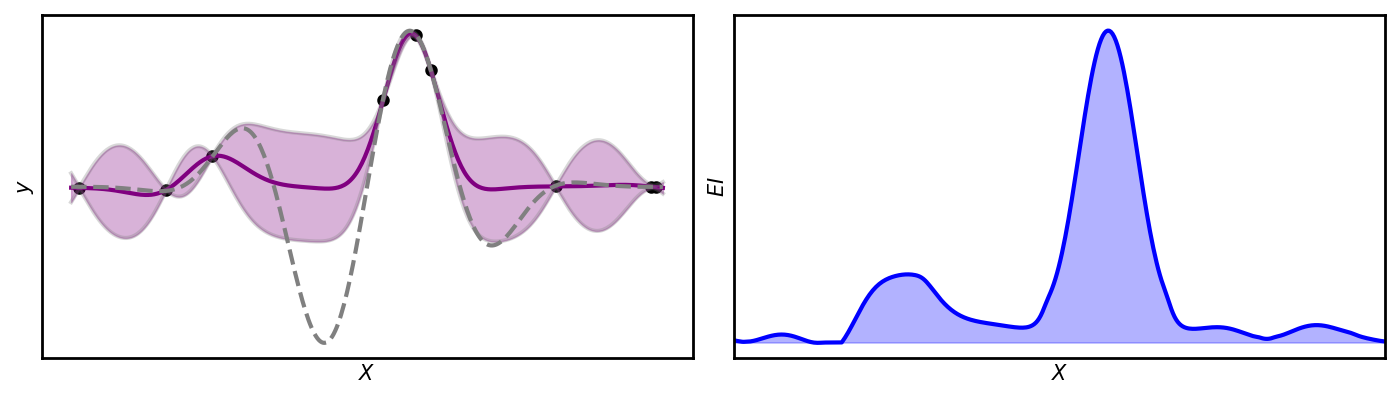
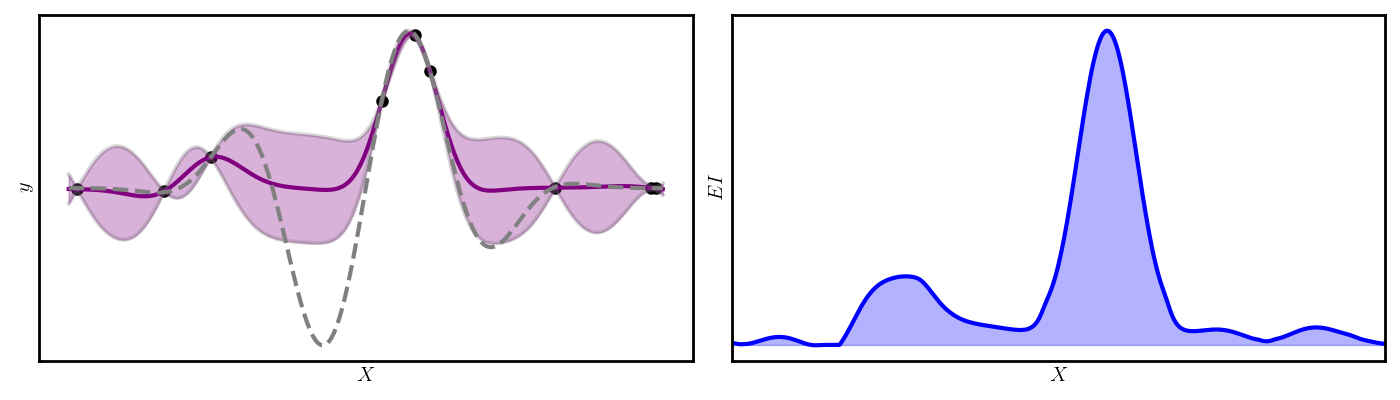
now using tex format

diff --git a/src/gpr/gaussian_process.py b/src/gpr/gaussian_process.py
@@ -29,6 +29,8 @@ class GP:
         self.acq_func = acq_func
         self.func = func
 
+        plt.rcParams['text.usetex'] = True
+
     def fit(self, X, y):
         """Fit Gaussian process regression model.
 
@@ -269,6 +271,9 @@ class GP:
             save_fig("samples")
 
     def plot_gp(self, X, mu, cov, post=False, plot_acq=False):
+
+        # plt.rcParams['text.usetex'] = True
+
         # Create a figure
         if plot_acq:
             fig = plt.figure(figsize=(14, 4))
